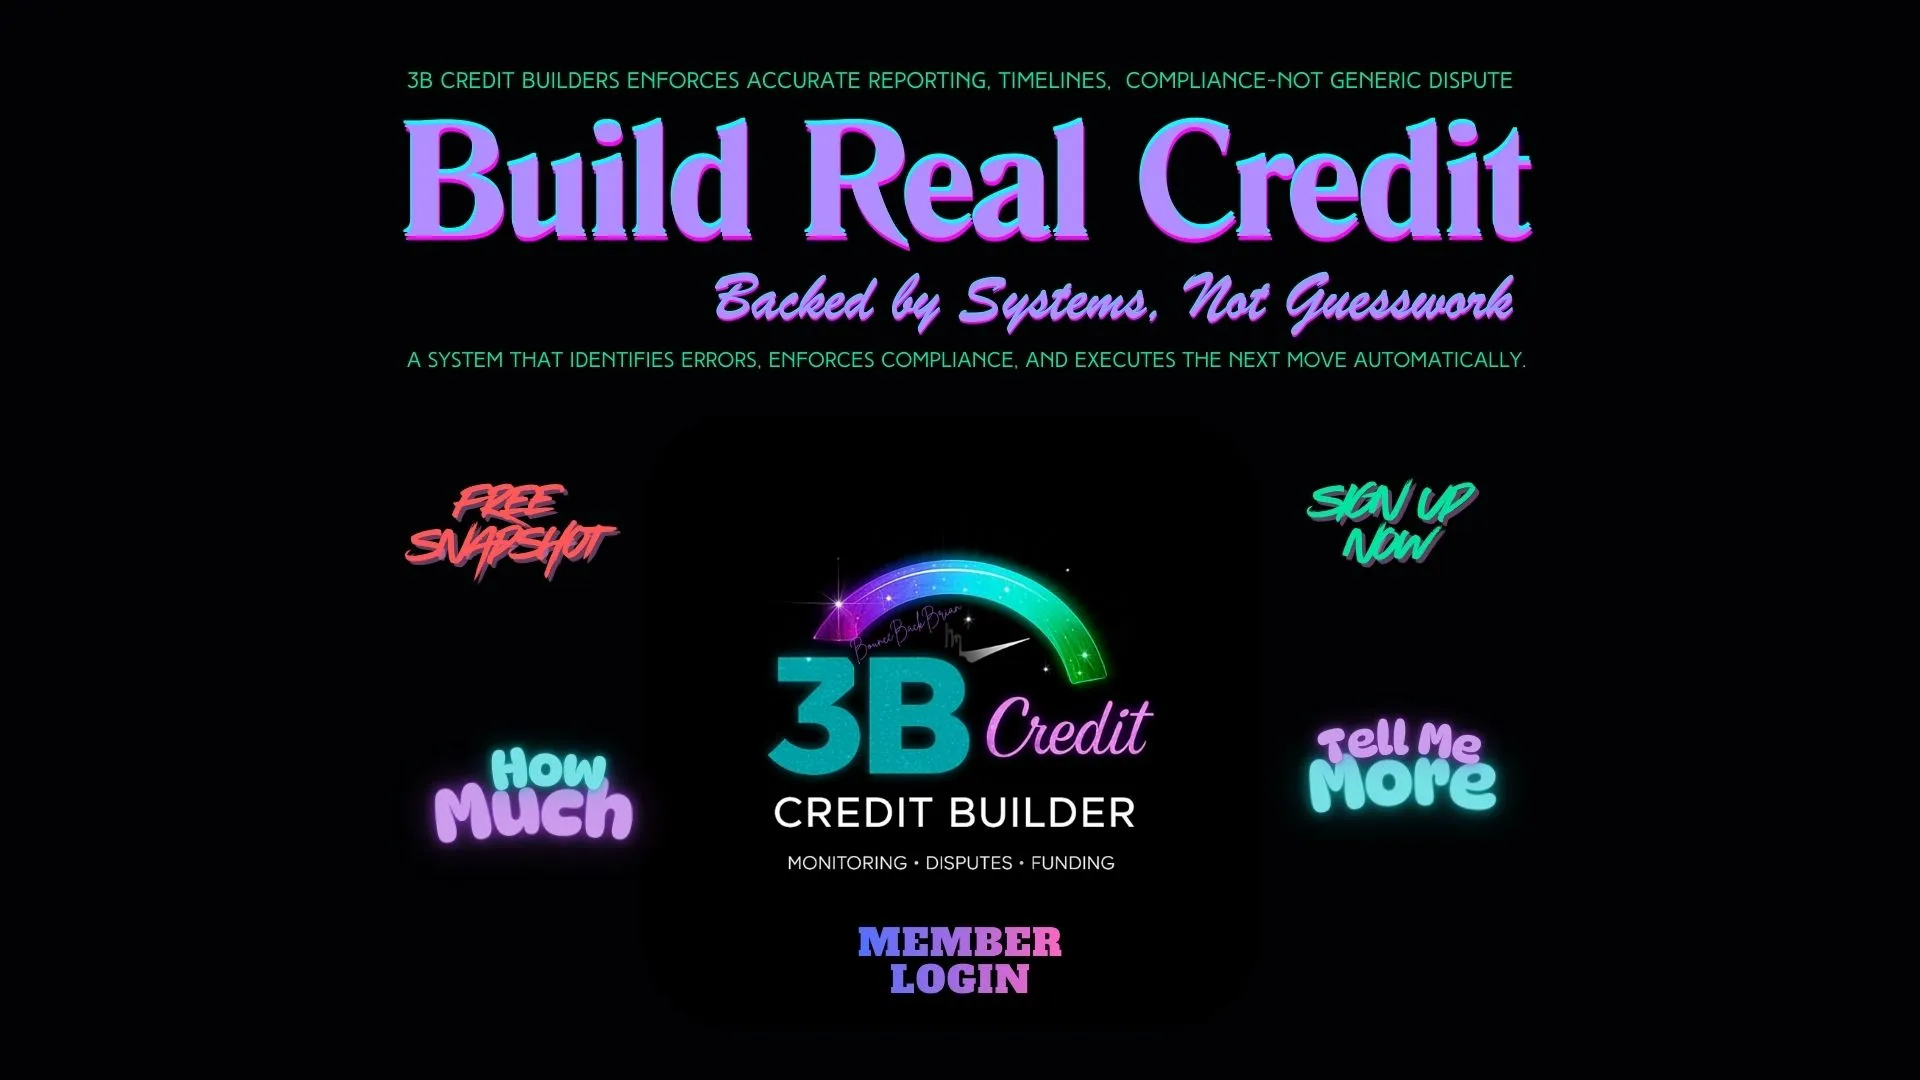
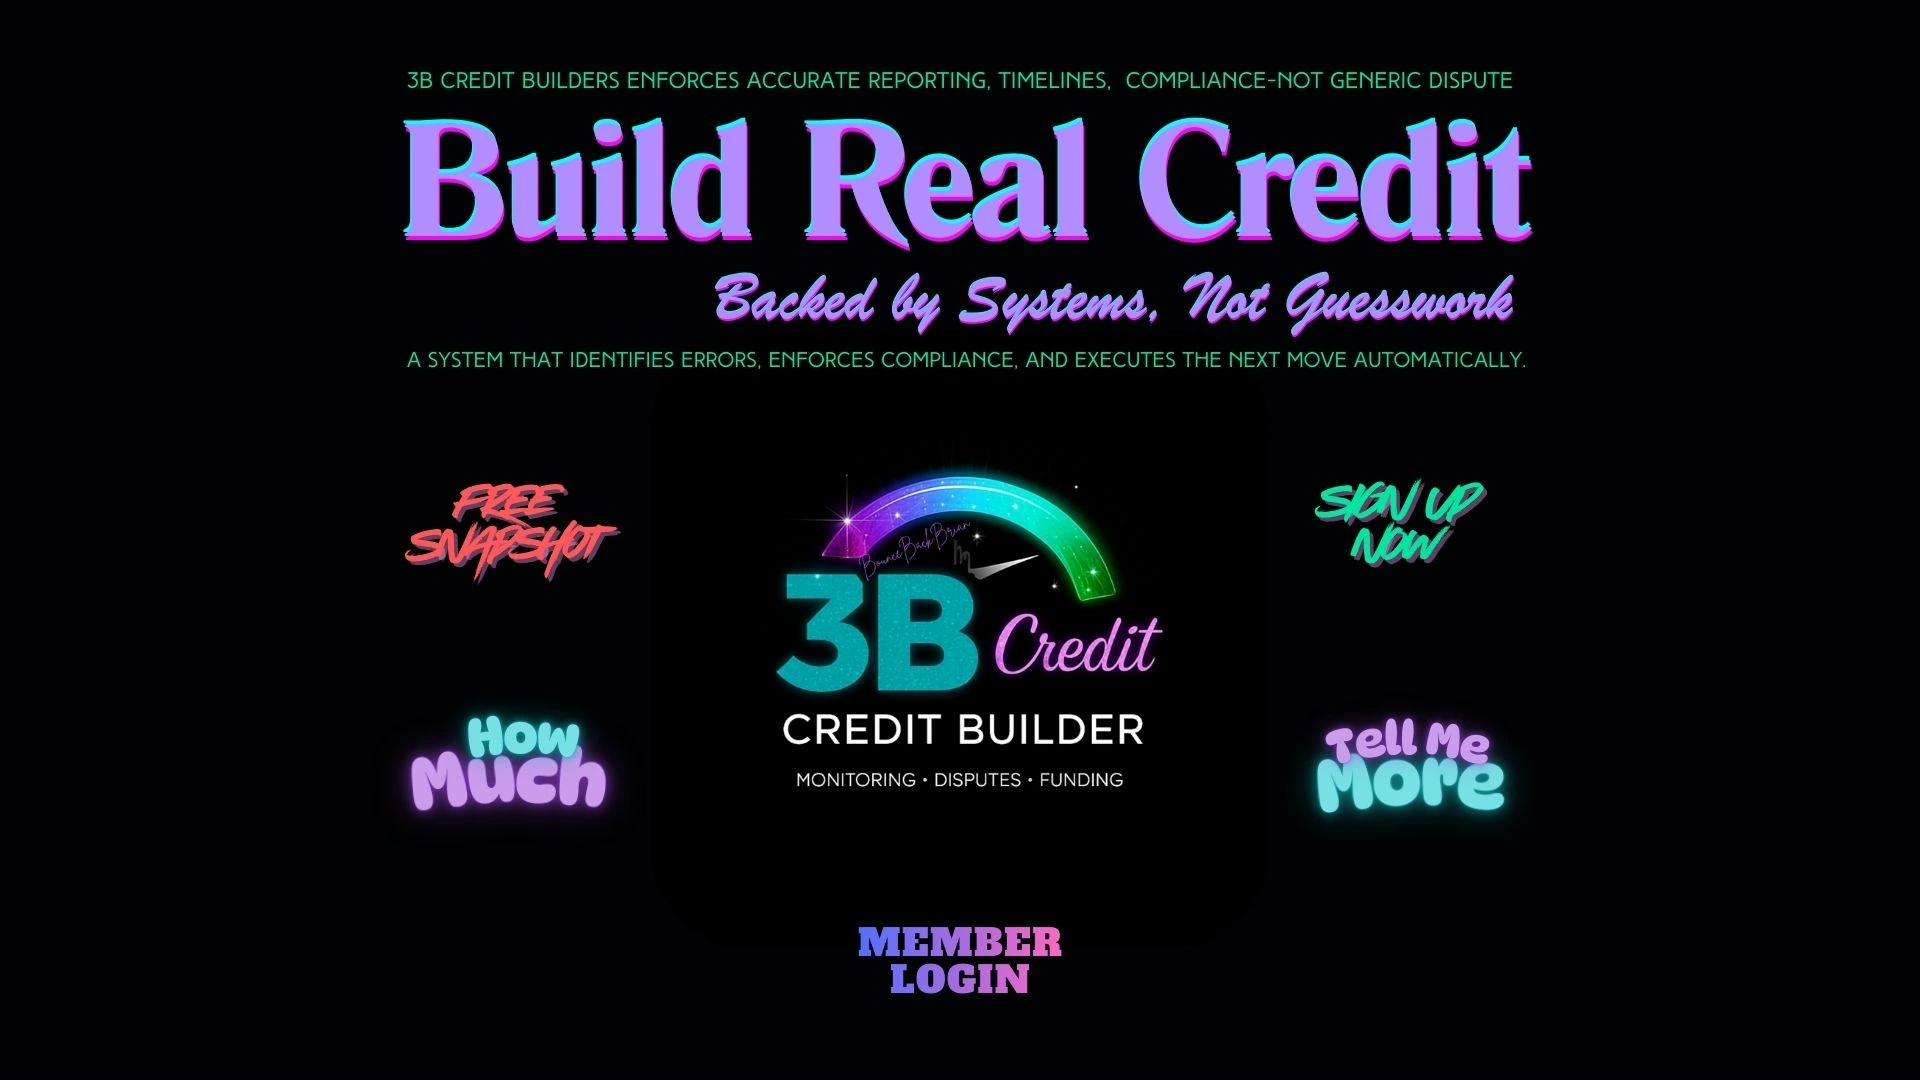
feat: complete landing page with responsive glowing buttons

diff --git a/app/page.tsx b/app/page.tsx
@@ -3,7 +3,7 @@ import Image from "next/image";
 
 export default function HomePage() {
   return (
-    <main className="relative overflow-hidden min-h-screen">
+    <main className="relative overflow-hidden min-h-screen bg-black flex items-center justify-center">
       {/* Background Image */}
       <Image
         src="/backgrounds/Main-Landing.webp"
@@ -11,55 +11,48 @@ export default function HomePage() {
         fill
         priority
         className="object-cover"
-        quality={90}
+        quality={75}
       />
       
-      {/* Interactive Button Overlays */}
-      <div className="relative z-20 w-full h-screen">
-        {/* FREE SNAPSHOT */}
+      {/* Overlay */}
+      <div className="absolute inset-0 bg-black/10 z-10" />
+      
+      {/* Responsive Button Container */}
+      <div className="relative z-20 w-full max-w-7xl mx-auto aspect-[16/9] flex items-center justify-center">
+        {/* FREE SNAPSHOT - moved inward more */}
         <Link 
           href="/snapshot" 
-          className="absolute top-[38%] left-[13%] px-10 py-4 bg-gradient-to-r from-red-500 via-pink-500 to-red-600 hover:from-red-600 hover:via-pink-600 hover:to-red-700 rounded-full transition-all duration-300 cursor-pointer flex items-center justify-center text-white font-bold text-base shadow-[0_0_20px_rgba(239,68,68,0.5)] hover:shadow-[0_0_30px_rgba(239,68,68,0.8)] hover:scale-105 active:scale-95"
-        >
-          ✨ Start Free Snapshot
-        </Link>
+          className="absolute top-[43%] left-[16%] w-[19.5%] h-[11%] rounded-[3rem] bg-gradient-to-r from-red-600/50 to-pink-600/50 hover:from-red-500/70 hover:to-pink-500/70 backdrop-blur-md border-4 border-red-400/80 hover:border-red-200 transition-all duration-300 cursor-pointer shadow-[0_0_80px_rgba(239,68,68,0.9)] hover:shadow-[0_0_120px_rgba(239,68,68,1)] hover:scale-105 active:scale-95"
+          aria-label="Start Free Snapshot"
+        />
         
-        {/* SIGN UP NOW */}
+        {/* SIGN UP NOW - moved inward more */}
         <Link 
           href="/signup" 
-          className="absolute top-[38%] right-[13%] px-10 py-4 bg-gradient-to-r from-teal-500 via-cyan-500 to-teal-600 hover:from-teal-600 hover:via-cyan-600 hover:to-teal-700 rounded-full transition-all duration-300 cursor-pointer flex items-center justify-center text-white font-bold text-base shadow-[0_0_20px_rgba(20,184,166,0.5)] hover:shadow-[0_0_30px_rgba(20,184,166,0.8)] hover:scale-105 active:scale-95"
-        >
-          🚀 Sign Up Now
-        </Link>
+          className="absolute top-[43%] right-[16%] w-[19.5%] h-[11%] rounded-[3rem] bg-gradient-to-r from-teal-600/50 to-cyan-600/50 hover:from-teal-500/70 hover:to-cyan-500/70 backdrop-blur-md border-4 border-teal-400/80 hover:border-teal-200 transition-all duration-300 cursor-pointer shadow-[0_0_80px_rgba(20,184,166,0.9)] hover:shadow-[0_0_120px_rgba(20,184,166,1)] hover:scale-105 active:scale-95"
+          aria-label="Sign Up Now"
+        />
         
-        {/* HOW MUCH */}
+        {/* HOW MUCH - moved inward more + down */}
         <Link 
           href="/pricing" 
-          className="absolute top-[63%] left-[13%] px-10 py-4 bg-gradient-to-r from-purple-500 via-pink-500 to-purple-600 hover:from-purple-600 hover:via-pink-600 hover:to-purple-700 rounded-full transition-all duration-300 cursor-pointer flex items-center justify-center text-white font-bold text-base shadow-[0_0_20px_rgba(168,85,247,0.5)] hover:shadow-[0_0_30px_rgba(168,85,247,0.8)] hover:scale-105 active:scale-95"
-        >
-          💰 Calculate My Gains
-        </Link>
+          className="absolute top-[64%] left-[16%] w-[19.5%] h-[11%] rounded-[3rem] bg-gradient-to-r from-purple-600/50 to-pink-600/50 hover:from-purple-500/70 hover:to-pink-500/70 backdrop-blur-md border-4 border-purple-400/80 hover:border-purple-200 transition-all duration-300 cursor-pointer shadow-[0_0_80px_rgba(168,85,247,0.9)] hover:shadow-[0_0_120px_rgba(168,85,247,1)] hover:scale-105 active:scale-95"
+          aria-label="Calculate My Gains"
+        />
         
-        {/* TELL ME MORE */}
+        {/* TELL ME MORE - moved inward more + down */}
         <Link 
           href="/about" 
-          className="absolute top-[63%] right-[13%] px-10 py-4 bg-gradient-to-r from-teal-500 via-cyan-500 to-teal-600 hover:from-teal-600 hover:via-cyan-600 hover:to-teal-700 rounded-full transition-all duration-300 cursor-pointer flex items-center justify-center text-white font-bold text-base shadow-[0_0_20px_rgba(20,184,166,0.5)] hover:shadow-[0_0_30px_rgba(20,184,166,0.8)] hover:scale-105 active:scale-95"
-        >
-          📖 Learn More
-        </Link>
+          className="absolute top-[64%] right-[16%] w-[19.5%] h-[11%] rounded-[3rem] bg-gradient-to-r from-teal-600/50 to-cyan-600/50 hover:from-teal-500/70 hover:to-cyan-500/70 backdrop-blur-md border-4 border-teal-400/80 hover:border-teal-200 transition-all duration-300 cursor-pointer shadow-[0_0_80px_rgba(20,184,166,0.9)] hover:shadow-[0_0_120px_rgba(20,184,166,1)] hover:scale-105 active:scale-95"
+          aria-label="Learn More About 3B"
+        />
         
-        {/* MEMBER LOGIN */}
+        {/* MEMBER LOGIN - moved up 0.5% */}
         <Link 
           href="/login" 
-          className="absolute bottom-[5%] left-1/2 -translate-x-1/2 px-12 py-4 bg-gradient-to-r from-purple-600 via-indigo-600 to-purple-700 hover:from-purple-700 hover:via-indigo-700 hover:to-purple-800 rounded-full transition-all duration-300 cursor-pointer flex items-center justify-center text-white font-bold text-base shadow-[0_0_20px_rgba(99,102,241,0.5)] hover:shadow-[0_0_30px_rgba(99,102,241,0.8)] hover:scale-105 active:scale-95"
-        >
-          🔐 Member Login
-        </Link>
-      </div>
-
-      {/* Scroll indicator (optional) */}
-      <div className="absolute bottom-4 left-1/2 -translate-x-1/2 z-10 animate-bounce text-white/50 text-xs">
-        {/* Can add scroll down arrow if needed */}
+          className="absolute bottom-[4.5%] left-1/2 -translate-x-1/2 w-[22%] h-[11%] rounded-[3rem] bg-gradient-to-r from-purple-700/50 to-indigo-700/50 hover:from-purple-600/70 hover:to-indigo-600/70 backdrop-blur-md border-4 border-purple-400/80 hover:border-purple-200 transition-all duration-300 cursor-pointer shadow-[0_0_80px_rgba(99,102,241,0.9)] hover:shadow-[0_0_120px_rgba(99,102,241,1)] hover:scale-105 active:scale-95"
+          aria-label="Member Login"
+        />
       </div>
     </main>
   );
